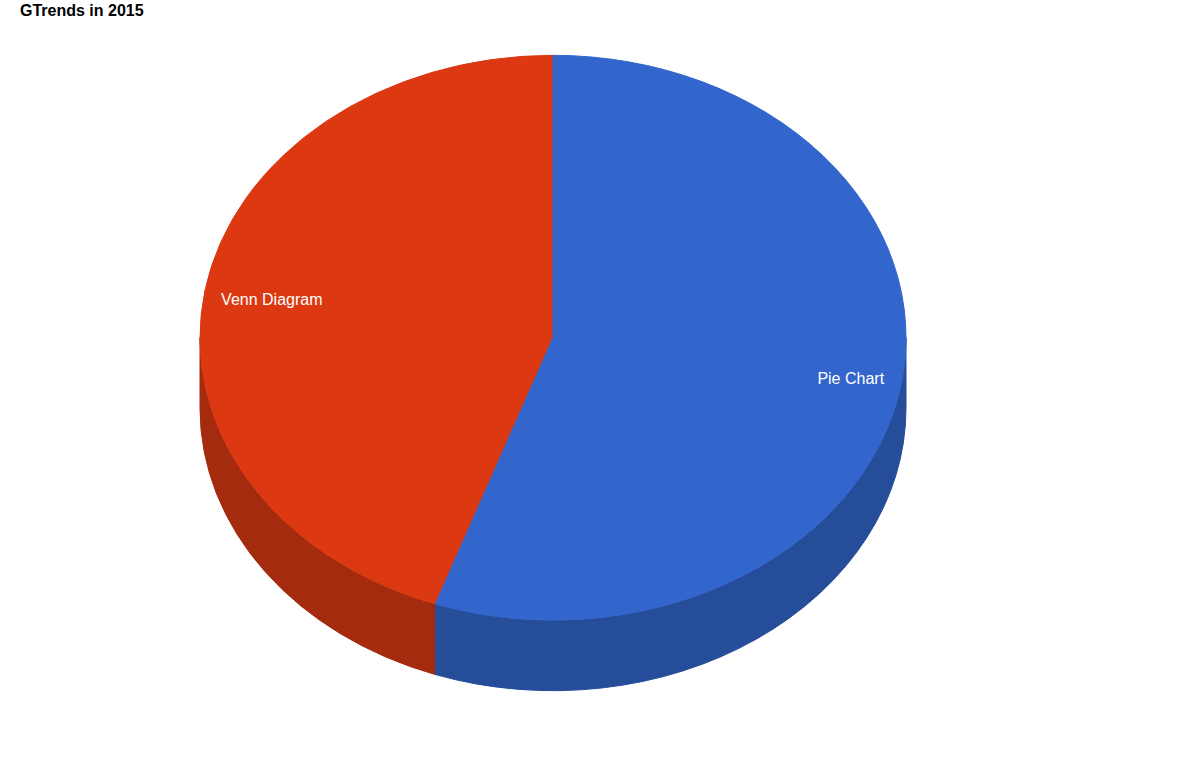
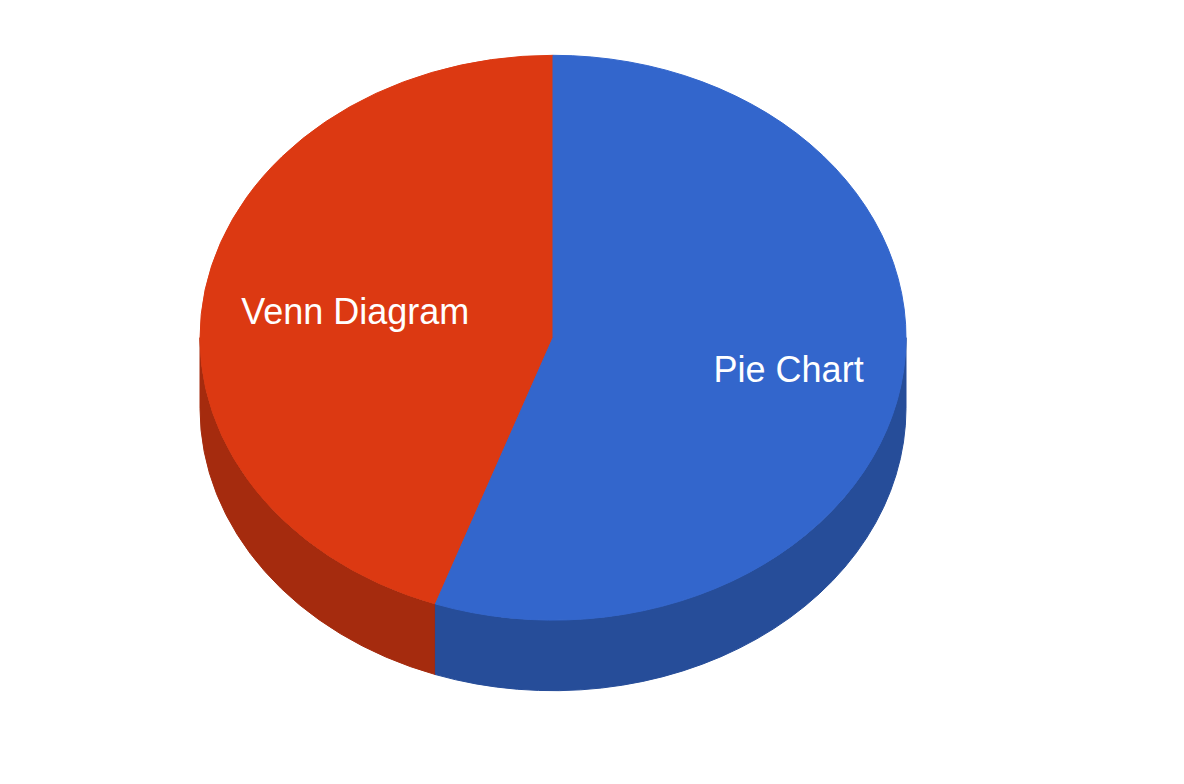
most visualizations

Changed region(s): [[0.1875, 0.3673, 0.4062, 0.4286], [0.5938, 0.4592, 0.75, 0.4898], [0.0, 0.0, 0.125, 0.0306]]

diff --git a/temp_chart.html b/temp_chart.html
@@ -6,11 +6,12 @@
           google.charts.load("current", {packages:["corechart"]});
           google.charts.setOnLoadCallback(drawChart);
           function drawChart() {
-            var data = google.visualization.arrayToDataTable([['Label', 'Value'], ['Pie Chart', 55], ['Venn Diagram', 37], ['Upset Plot', 1]]);
+            var data = google.visualization.arrayToDataTable([['Label', 'Value'], ['apple pie', 750], ['other food', 100250]]);
 
             var options = {
-              title: 'GTrends in 2025',
+              title: '',
               is3D: true,
+              fontSize: 36,               // larger default font
               pieSliceText: 'label',     // Forces TEXT labels inside
               legend: 'none',            // Cleaner look without side legend
               backgroundColor: 'transparent',

diff --git a/pievis.py b/pievis.py
@@ -3,7 +3,7 @@ import time
 import os
 import pandas as pd
 
-def create_3d_pie_google(data_dict, title=""):
+def create_3d_pie_google(data_dict, title="", font_size=36):
     # Convert dictionary to Google's data format: [['Label', 'Value'], ...]
     rows = [["Label", "Value"]]
     for k, v in data_dict.items():
@@ -22,6 +22,7 @@ def create_3d_pie_google(data_dict, title=""):
             var options = {{
               title: '{title}',
               is3D: true,
+              fontSize: {font_size},               // larger default font
               pieSliceText: 'label',     // Forces TEXT labels inside
               legend: 'none',            // Cleaner look without side legend
               backgroundColor: 'transparent',
@@ -63,30 +64,12 @@ def save_google_chart_as_png(html_file, output_png):
         page.locator('#pie_3d_render').screenshot(path=output_png)
         print(f"Chart saved as {output_png}")
 
-if __name__ == "__main__":
-    df = pd.read_csv("pie_chart_trend.csv", index_col=0)
-    # title = df.index[0]
-    # data = df.iloc[0].to_dict()  # Specific row by index
-    # print(title, data)
+def create_all_charts_from_csv(csv_file, prefix=""):
+    df = pd.read_csv(csv_file, index_col=0)
 
-    # 
     for index, row in df.iterrows():
-        title = f"GTrends in {index}"
+        title = f"{prefix}{index}"
         data = row.to_dict()
         print(title, data)
         create_3d_pie_google(data, title=title)
         save_google_chart_as_png("temp_chart.html", f"pie/pie_{index}.png")
-    # Data
-    # data = {
-    #     "Pie Chart": 55,
-    #     "Venn Diagram": 37,
-    #     "Upset Plot": 1
-    # }
-
-    # # Render
-    # create_3d_pie_google(data, title="2025 Pie Chart Usage")
-
-    # # Usage (assuming you ran the previous script to create 'temp_chart.html')
-    # save_google_chart_as_png("temp_chart.html", "my_3d_pie.png")
-    # # Clean up temporary file
-    # os.remove("temp_chart.html")

diff --git a/create_all_paper_pies.py b/create_all_paper_pies.py
@@ -1,0 +1,24 @@
+import pievis
+import pandas as pd
+
+if __name__ == "__main__":
+    pievis.create_all_charts_from_csv("data/pie_chart_trend.csv", prefix="GTrends in ")
+
+    pievis.create_all_charts_from_csv("data/ged_analysis.csv", prefix="GED: ")
+    
+    pievis.create_all_charts_from_csv("data/ink_efficiency.csv", prefix="Ink Efficiency: ")
+
+    pievis.create_3d_pie_google({"When to use Pie Charts": 100}, title="")
+    pievis.save_google_chart_as_png("temp_chart.html", "pie/pie_fig1.png")
+
+    pievis.create_3d_pie_google({"Markus": 50, "Kevin": 50}, title="")
+    pievis.save_google_chart_as_png("temp_chart.html", "pie/author_contribution.png")
+
+    pievis.create_3d_pie_google({"blue": 69, "red": 42, "orange": 19, "green":9}, title="")
+    pievis.save_google_chart_as_png("temp_chart.html", "pie/paper_analysis.png")
+
+    pievis.create_3d_pie_google({"carbs": 39.7, "fat": 12.8, "protein": 2.2}, title="Nutritional Benefits")
+    pievis.save_google_chart_as_png("temp_chart.html", "pie/nutri_stats.png")
+
+    pievis.create_3d_pie_google({"apple pie": 750, "other food": 100250})
+    pievis.save_google_chart_as_png("temp_chart.html", "pie/food101.png")
